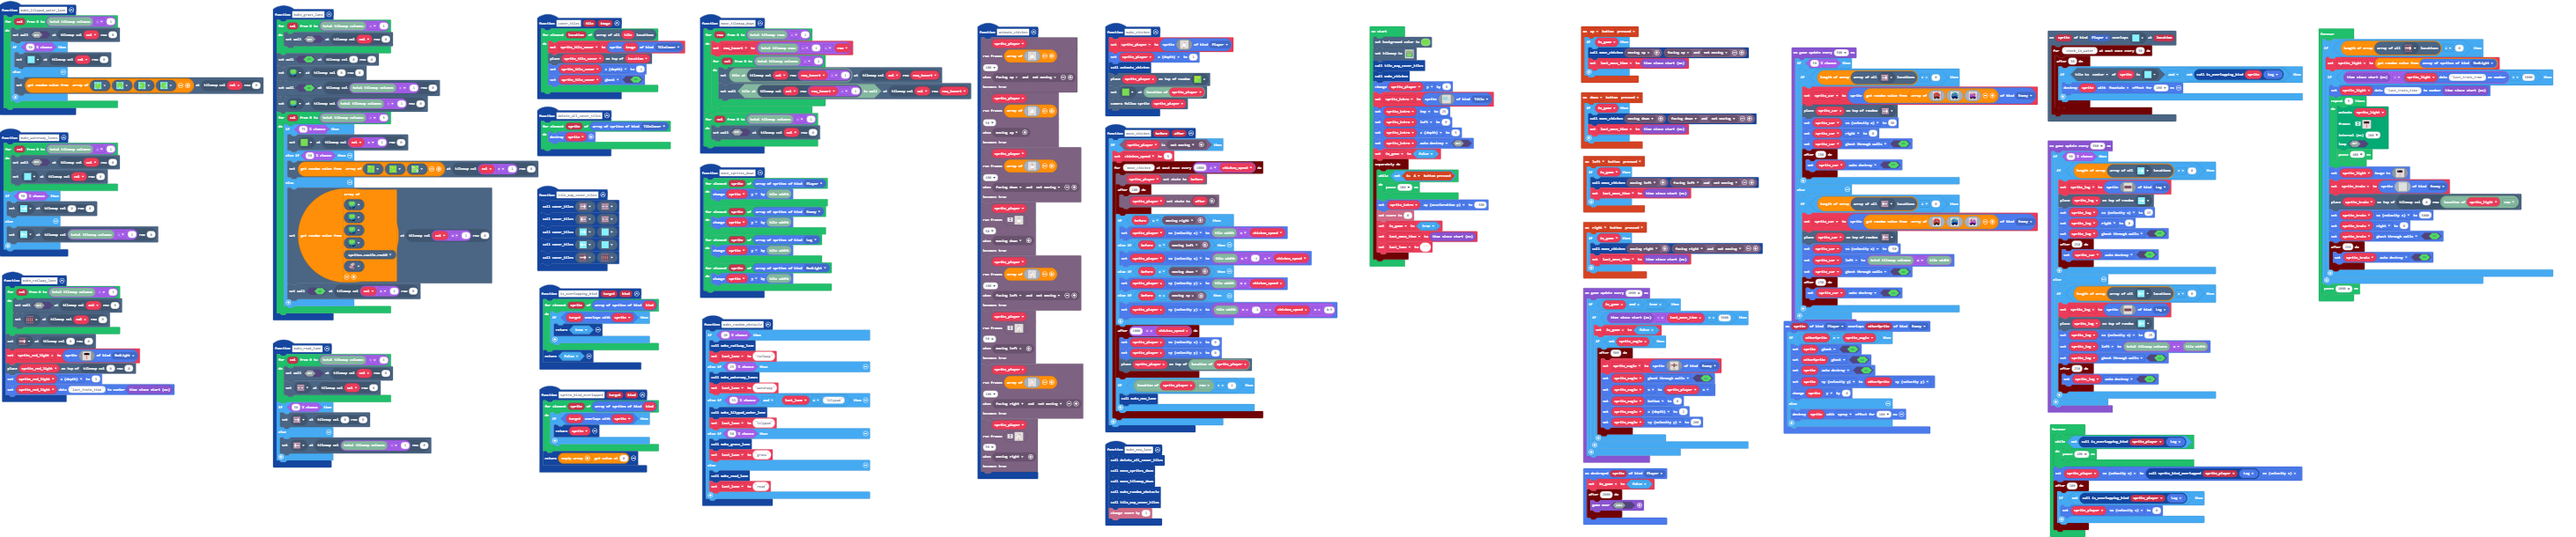
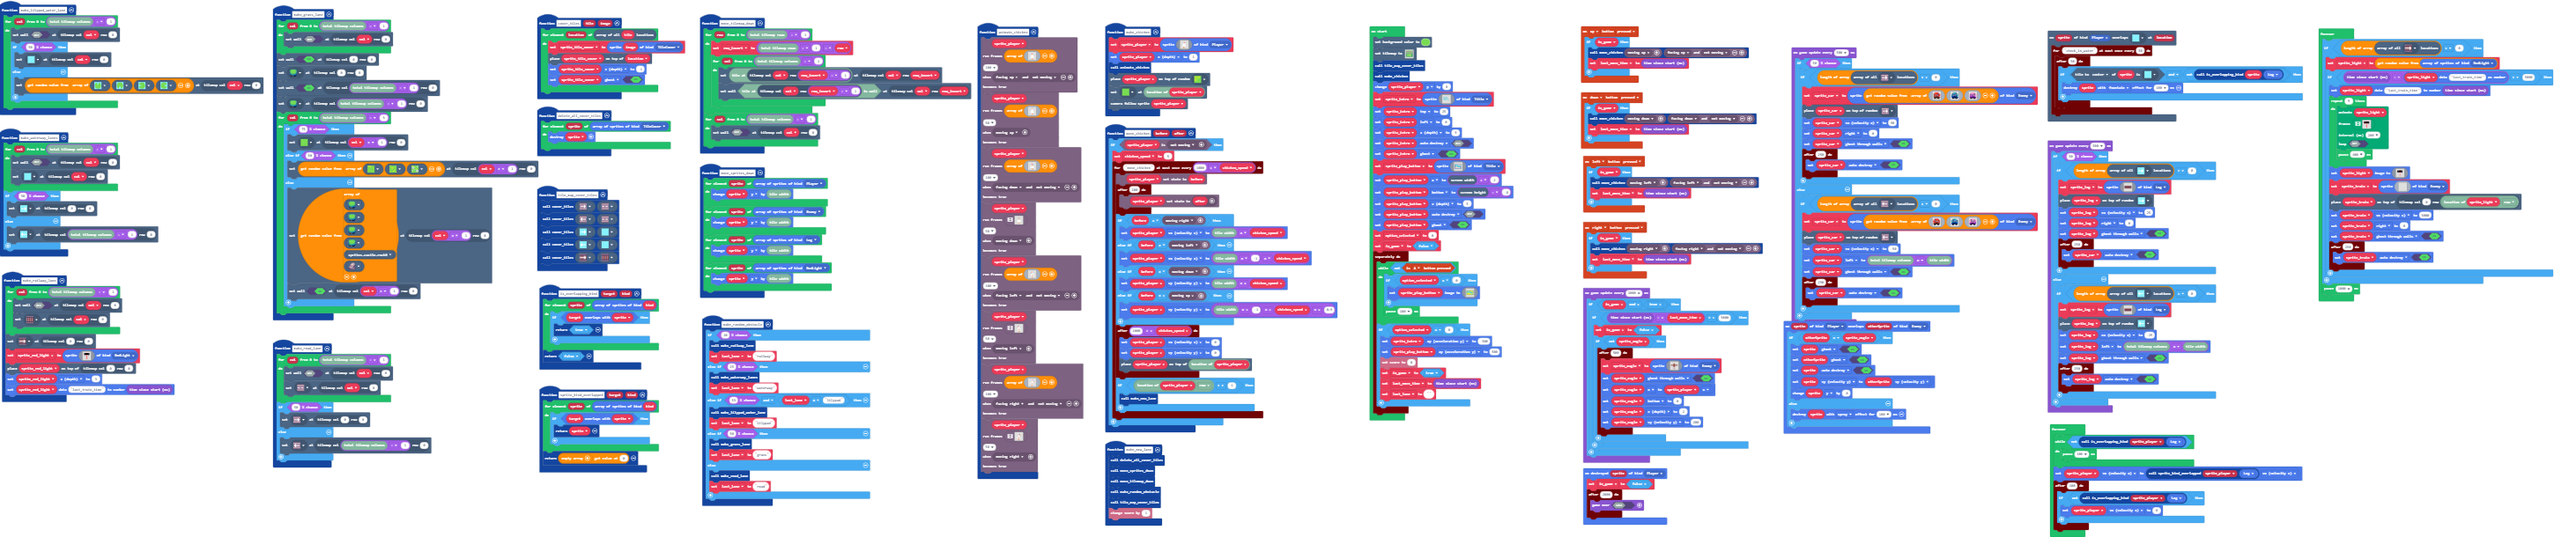
Make title screen

Changed region(s): [[0.5291, 0.2492, 0.5913, 0.7787]]

diff --git a/images.g.ts b/images.g.ts
@@ -392,6 +392,52 @@ bbbbbbbbbbbbbbbbbbdbbbbbbbbbbbbbbbbbbdbbbbbbbbbbbbbbbbbbdbbbbbbbbbbbbbbbbbbdbbbb
 ................................................................................................................................................................
 ................................................................................................................................................................
 `;
+            case "Gs}pvajx1eX54b|`6(du":
+            case "play_button":return img`
+.888888888888888888888888888888.
+88dddddddddddddddddddddddddddd88
+8ddddd9999d999ddddddddddddddddd8
+8dd999999999699dddddddddddddddd8
+8dd968699689699dddddddddddd99dd8
+8d9969999966669d9999999ddd999dd8
+8d9969999969969996886999dd996dd8
+8d996999669996998999696999969dd8
+8d968866999996969999696699969dd8
+8d9669999dd996969996899669699dd8
+8d9669ddddd99696996669998669ddd8
+8d9669ddddd99696869969999869ddd8
+8d9999dddddd9999999999d99699ddd8
+8dddddddddddddddddddddd9969dddd8
+8dddddddddddddddddddddd9669dddd8
+8dddddddddddddddddddddd9699dddd8
+8ddddddddddddddddddddd9969ddddd8
+8ddddddddddddddddddddd9999ddddd8
+88dddddddddddddddddddddddddddd88
+.888888888888888888888888888888.
+`;
+            case "Y${6Qq`u/`@Do%H?g?uP":
+            case "play_button_highlighted":return img`
+.888888888888888888888888888888.
+88555555555555555555555555555588
+85555599995999555555555555555558
+85599999999969955555555555555558
+85596869968969955555555555599558
+85996999996666959999999555999558
+85996999996996999688699955996558
+85996999669996998999696999969558
+85968866999996969999696699969558
+85966999955996969996899669699558
+85966955555996969966699986695558
+85966955555996968699699998695558
+85999955555599999999995996995558
+85555555555555555555555996955558
+85555555555555555555555966955558
+85555555555555555555555969955558
+85555555555555555555559969555558
+85555555555555555555559999555558
+88555555555555555555555555555588
+.888888888888888888888888888888.
+`;
         }
         return null;
     })

diff --git a/main.ts b/main.ts
@@ -320,16 +320,30 @@ sprite_intro.top = 25
 sprite_intro.left = 0
 sprite_intro.z = 5
 sprite_intro.setFlag(SpriteFlag.AutoDestroy, false)
+sprite_intro.setFlag(SpriteFlag.Ghost, true)
+let sprite_play_button = sprites.create(assets.image`play_button`, SpriteKind.Title)
+sprite_play_button.x = scene.screenWidth() / 2
+sprite_play_button.bottom = scene.screenHeight() - -8
+sprite_play_button.z = 5
+sprite_play_button.setFlag(SpriteFlag.AutoDestroy, false)
+sprite_play_button.setFlag(SpriteFlag.Ghost, true)
+let option_selected = 0
 in_game = false
 timer.background(function () {
     while (!(controller.A.isPressed())) {
+        if (option_selected == 0) {
+            sprite_play_button.setImage(assets.image`play_button_highlighted`)
+        }
         pause(100)
     }
-    sprite_intro.ay = -500
-    info.setScore(0)
-    in_game = true
-    last_move_time = game.runtime()
-    last_lane = ""
+    if (option_selected == 0) {
+        sprite_intro.ay = -500
+        sprite_play_button.ay = 500
+        info.setScore(0)
+        in_game = true
+        last_move_time = game.runtime()
+        last_lane = ""
+    }
 })
 game.onUpdateInterval(1000, function () {
     if (in_game && true) {
